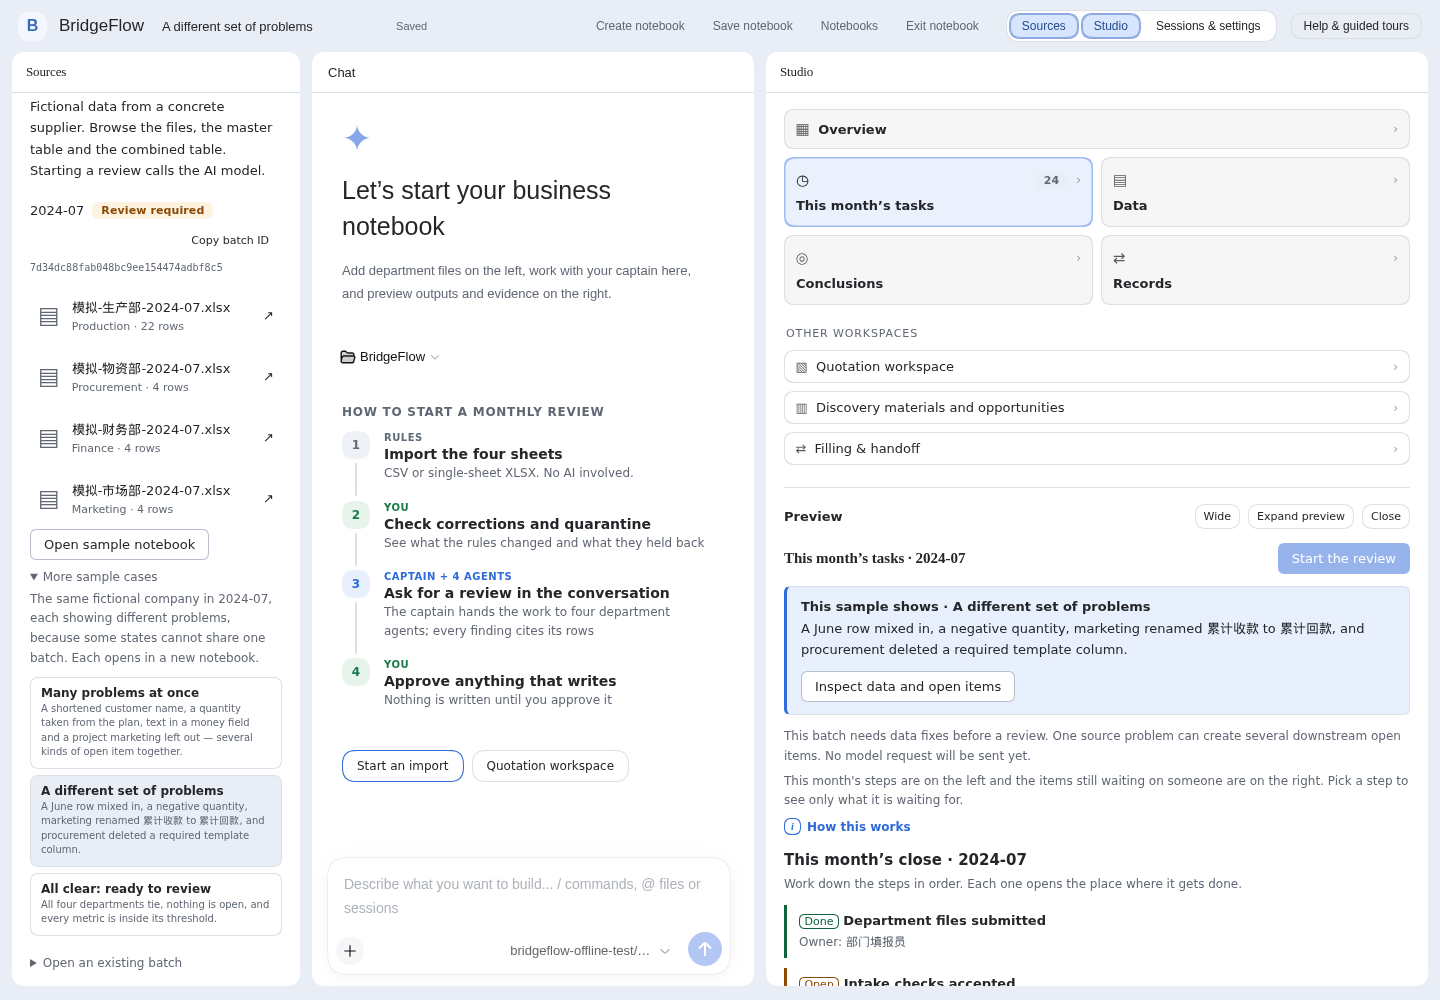
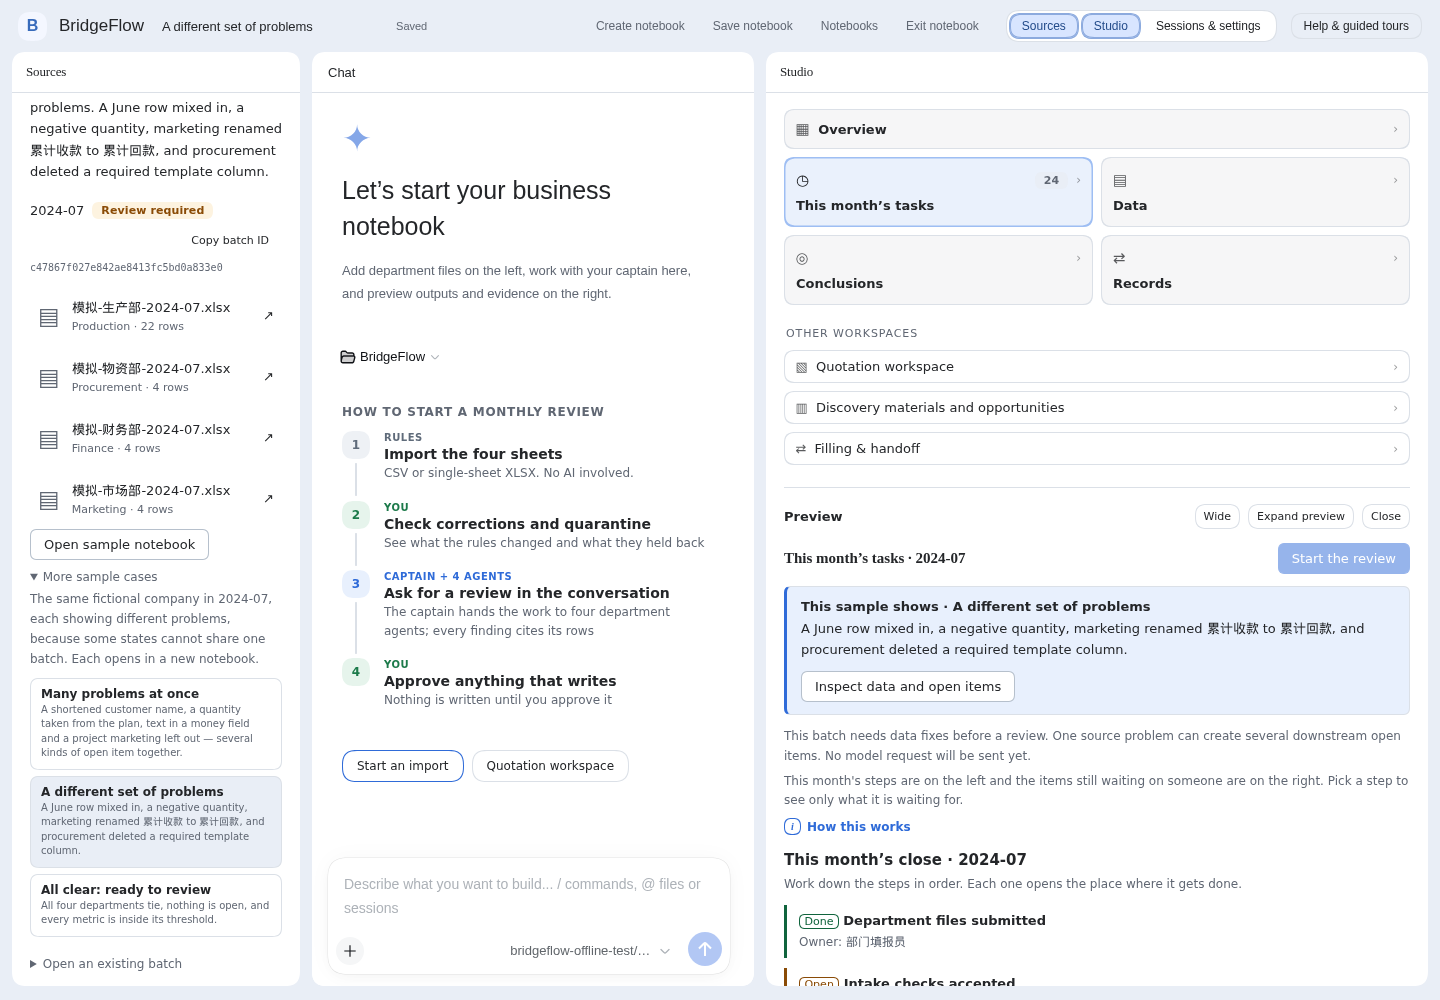
Explain each sample in Sources and correct model guidance

diff --git a/plugins/src/client/shell.tsx b/plugins/src/client/shell.tsx
@@ -1,5 +1,5 @@
 import { Discovery } from './discovery.tsx'
-import { SampleCases } from './sample-cases.tsx'
+import { SampleCases, useDemoCase } from './sample-cases.tsx'
 import { TourDriver, TourHelpButton, TourLayer } from './tour/tour.tsx'
 import { tourEvent } from './tour/state.ts'
 import { notebookKinds, notebookPurposes, isNotebookKind } from '../notebook-capabilities.ts'
@@ -42,6 +42,7 @@ function Shell({ ctx }: { ctx: Context }) {
   const selected = useMemo(() => route(), [hash])
   const batchId = selected.batch || String(audit.review?.batch_id ?? '')
   const [summary, setSummary] = useState<Summary | null>(null), [sources, setSources] = useState<Source[]>([])
+  const sampleCase = useDemoCase(summary?.demo_case ?? '')
   const [artifacts, setArtifacts] = useState<Artifact[]>([]), [artifactTotal, setArtifactTotal] = useState(0), [artifactOffset, setArtifactOffset] = useState(0)
   const [error, setError] = useState(''), [revision, setRevision] = useState(0), [busy, setBusy] = useState(false)
   const [preview, setPreview] = useState<Preview | null>(null), [report, setReport] = useState<Review | null>(null), [offset, setOffset] = useState(0)
@@ -178,7 +179,10 @@ function Shell({ ctx }: { ctx: Context }) {
     <aside className="bf-shell-pane bf-shell-sources bf-state" data-mobile-open={panel === 'sources'} aria-label={t('sources')}>
       <header><h2>{t('sources')}</h2><button className="bf-mobile-close" onClick={() => setPanel('')}>{t('close')}</button></header>
       <div className="bf-shell-scroll"><GuestBanner /><label className="bf-notebook-purpose">{t('notebookKind')}<select disabled={notebook.busy || !notebook.loaded} value={notebook.kind} onChange={e=>{if(isNotebookKind(e.target.value))notebook.setKind(e.target.value)}}>{notebookKinds.map(kind=><option key={kind} value={kind}>{t(notebookPurposes[kind].label)}</option>)}</select></label><p className="bf-hint">{t('notebookPurposeHelp')}</p><button className="bf-add-source" onClick={() => importer.current?.showModal()}>＋ {t('addSources')}</button>
-        <p className="bf-hint">{t('sourceUploadHelp')}</p>{summary?.demo_case && <p className="bf-sample-notice">{t('sampleNotebookTitle')} · {t('sampleNotebookHelp')}</p>}
+        <p className="bf-hint">{t('sourceUploadHelp')}</p>{summary?.demo_case && <p className="bf-sample-notice" role="note">
+          <strong>{t('sampleNotebookTitle')}</strong><br/>
+          {sampleCase ? <>{t('sampleCaseLabel')} · {sampleCase.title[language === 'zh' ? 0 : 1]}{language === 'zh' ? '。' : '. '}{sampleCase.summary[language === 'zh' ? 0 : 1]}</> : t('sampleNotebookHelp')}
+        </p>}
         {summary && <div className="bf-source-batch"><span>{summary.period}</span><Chip status={summary.status}/><button title={batchId} onClick={() => void navigator.clipboard.writeText(batchId).then(() => setCopied(true)).catch(e => setError(describeError(e, t)))}>{t(copied ? 'copied' : 'copyId')}</button><code>{batchId}</code></div>}
         <ul className="bf-resource-list">{sources.map(source => <li key={source.id}><button aria-pressed={selected.source === source.id && selected.view === 'source'} onClick={() => openSource(source)} disabled={!source.preview_available}>
           <span className="bf-file-icon" aria-hidden="true">▤</span><span><strong title={source.filename}>{source.filename}</strong><small>{t(source.id)} · {source.preview_available ? `${source.total} ${t('rows')}` : t('originalUnavailable')}</small></span><span aria-hidden="true">↗</span>

diff --git a/plugins/src/client/ui.ts b/plugins/src/client/ui.ts
@@ -175,7 +175,7 @@ const labels = {
   notebookTitleRequired: ['请填写笔记本名称', 'Enter a notebook name'],
   notebookHistoryHelp: ['从 DSH 已保存的会话中打开笔记本；来源及产物按保存的批次恢复。未保存的空白笔记本不列入历史。', 'Reopen a saved notebook with its sources and results. Empty notebooks that were never saved are not listed.'],
   sampleNotebook: ['打开示例笔记本', 'Open sample notebook'], sampleNotebookTitle: ['业务演示 · 月度对账（模拟商砼公司 2024-07）', 'Business demo · monthly review (fictional concrete supplier, 2024-07)'],
-  sampleNotebookHelp: ['虚构的混凝土供应商数据。可以浏览文件、主表和跨部门总表；发起研判会调用 AI 模型。', 'Fictional data from a concrete supplier. Browse the files, the master table and the combined table. Starting a review calls the AI model.'],
+  sampleNotebookHelp: ['虚构的混凝土供应商数据。可以浏览文件、主表和跨部门总表；到「本月任务」查看本示例展示的问题，以及当前能否发起研判。', 'Fictional data from a concrete supplier. Browse the files and combined table; open This month’s tasks to see what this sample shows and whether a review can start.'],
   draftNotebook: ['空白草稿', 'Empty draft'],
   unsavedNotebook: ['未保存', 'Unsaved'], savedNotebook: ['已保存', 'Saved'],
   resizeSources: ['调整来源栏宽度', 'Resize Sources'], resizeStudio: ['调整工作室宽度', 'Resize Studio'],

diff --git a/plugins/src/client/tasks.tsx b/plugins/src/client/tasks.tsx
@@ -1,24 +1,15 @@
-import { useEffect, useState } from 'react'
+import { useState } from 'react'
 import { CloseChecklist, OpenItemInbox } from './checklist.tsx'
 import { WorkflowProgress } from './workflow-progress.tsx'
-import { api, describeError, navigate, startReview, useUI, type Summary } from './ui.ts'
+import { describeError, navigate, startReview, useUI, type Summary } from './ui.ts'
 import { Explain } from './explain.tsx'
 import { useGuestMode } from './guest.tsx'
+import { useDemoCase } from './sample-cases.tsx'
 import type { projectAudit } from './audit.ts'
-
-type DemoCase = { case_id: string; title: [string, string]; summary: [string, string] }
 
 function DemoCaseGuide({ caseId, batchId }: { caseId: string; batchId: string }) {
   const { t, language } = useUI()
-  const [sample, setSample] = useState<DemoCase | null>(null)
-  useEffect(() => {
-    const controller = new AbortController()
-    setSample(null)
-    void api<{ cases: DemoCase[] }>('/batches/demo/cases', { signal: controller.signal })
-      .then(value => setSample(value.cases.find(item => item.case_id === caseId) ?? null))
-      .catch(() => { if (!controller.signal.aborted) setSample(null) })
-    return () => controller.abort()
-  }, [caseId])
+  const sample = useDemoCase(caseId)
   if (!sample) return null
   const pick = (pair: [string, string]) => pair[language === 'zh' ? 0 : 1]
   return <div className="bf-callout bf-demo-guide" data-tone="info" role="note">

diff --git a/plugins/src/client/sample-cases.tsx b/plugins/src/client/sample-cases.tsx
@@ -1,7 +1,22 @@
 import { useEffect, useState } from 'react'
 import { api, useUI } from './ui.ts'
 
-type Case = { id: string; title: [string, string]; summary: [string, string] }
+type Case = { id: string; case_id: string; title: [string, string]; summary: [string, string] }
+
+/** The same case declaration labels both Sources and the Tasks guide. */
+export function useDemoCase(caseId: string): Case | null {
+  const [sample, setSample] = useState<{ caseId: string; value: Case | null }>({ caseId: '', value: null })
+  useEffect(() => {
+    setSample({ caseId, value: null })
+    if (!caseId) return
+    const controller = new AbortController()
+    void api<{ cases: Case[] }>('/batches/demo/cases', { signal: controller.signal })
+      .then(value => setSample({ caseId, value: value.cases.find(item => item.case_id === caseId) ?? null }))
+      .catch(() => { if (!controller.signal.aborted) setSample({ caseId, value: null }) })
+    return () => controller.abort()
+  }, [caseId])
+  return sample.caseId === caseId ? sample.value : null
+}
 
 /**
  * The demo cases beyond the guided-tour sample. One batch cannot show every state — a batch

diff --git a/docs/00-status.md b/docs/00-status.md
@@ -33,7 +33,7 @@
 
 | 闸门 | 当前证据与结论 |
 | --- | --- |
-| 本地离线主路径 | 在私有 dsh 上复跑员工身份的材料→候选→图→评分→会议→决策浏览器旅程、工作流、月结、四部门研判、报价、三套样例、冷重启、笔记本恢复、部门故障和 README 截图旅程，均通过。员工旅程最初被过期的浏览器测试夹具挡住：它仍写旧的 `users` ACL，且按旧界面查找折叠内容和流程节点；修复测试夹具后通过。评分图第 51 个候选标题的 API 回归与引导四象限完整可见性检查已补上并通过。三本样例的待办固定在各自批次，回开第一本仍显示自己的 15 条，首屏说明、未就绪研判按钮及新笔记本创建时快速转向流转页也在浏览器中核对。复现：`BRIDGEFLOW_TEST_DISCOVERY=1 BRIDGEFLOW_TEST_EMPLOYEE=1 BRIDGEFLOW_LIVE=0 pnpm --dir plugins smoke:web`，以及 [交接文档中的其余命令](../HANDOFF.md)。测试模型是脚本化的，不能代替现场真实模型验收。 |
+| 本地离线主路径 | 在私有 dsh 上复跑员工身份的材料→候选→图→评分→会议→决策浏览器旅程、工作流、月结、四部门研判、报价、三套样例、冷重启、笔记本恢复、部门故障和 README 截图旅程，均通过。员工旅程最初被过期的浏览器测试夹具挡住：它仍写旧的 `users` ACL，且按旧界面查找折叠内容和流程节点；修复测试夹具后通过。评分图第 51 个候选标题的 API 回归与引导四象限完整可见性检查已补上并通过。三本样例的待办固定在各自批次，回开第一本仍显示自己的 15 条；左侧来源和任务页显示一致的案例问题，未就绪研判按钮及新笔记本创建时快速转向流转页也在浏览器中核对。复现：`BRIDGEFLOW_TEST_DISCOVERY=1 BRIDGEFLOW_TEST_EMPLOYEE=1 BRIDGEFLOW_LIVE=0 pnpm --dir plugins smoke:web`，以及 [交接文档中的其余命令](../HANDOFF.md)。测试模型是脚本化的，不能代替现场真实模型验收。 |
 | 代码回归 | 本轮当前分支后端 742、插件 100 条全过，TypeScript 类型检查与相关 Ruff 通过。门户未改，46 条沿用上轮验证；CI 以 PR 当前提交为准。 |
 | 负责人本机演示 | 3082 已重启到当前分支；8000 后端、8100 门户健康，3082 无会话的 401 符合身份围栏预期。新 Command Code 接口以极小请求得到 `OK`，原生 dsh 单题真实模型工具选择正确调用 `batch_summary`（55,625 token）。无飞书登录态的浏览器会被数据接口要求登录；负责人登录后仍需手工走查四样例与两条引导，不能把进程健康或单题模型调用当作走查完成。 |
 | 公网访客入口 | 独立访客实例代码已合入；2026-09-24 只读探测：门户首页返回 200，却没有 `/guest` 入口，`guest.<domain>` TLS 仍不可用。[服务器装配步骤](22-lightsail-deploy.md)中的 DNS、环境变量、服务与重置定时器仍待执行和验收。当前分支的浏览器旅程验证了关闭 AI 时任务页、流转页的禁用与提示；另在临时隔离 worktree 启动真实 `--guest` 进程，从其令牌入站，干净样例与流转样例均可浏览、相应模型按钮禁用且无页面错误。部署 preflight 新增启用 guest 后的入口、令牌和 TLS 条件检查，尚未在服务器执行。该验证仍不等于公网验收。 |

diff --git a/HANDOFF.md b/HANDOFF.md
@@ -15,6 +15,7 @@
 - **新模型路由**：本机 `env.sh` 指向的 Command Code 模型接口用一次极小请求返回 `OK`（50 token）；原生 dsh 的真实模型工具选择旅程只跑首题 `status-zh`，正确首先调用 `batch_summary`，总计 55,625 token。脚本新增 `BRIDGEFLOW_CASE_LIMIT=1` 可在全量 18 题前先验路由；**这不是**完整月结或现场 3082 的重验，暂不继续扩大付费测试。
 - **本机演示进程**：确认新模型路由后已重启 3082（当前分支代码），8000/8100 的 `/health` 都为 200，3082 无会话返回预期 401。无飞书登录态的浏览器虽然能用 dsh 启动令牌进入外壳，但数据接口显示「需要登录」，所以不能算 3082 业务主路径手工通过；负责人登录飞书后仍需看四样例与两条引导。
 - **部署验收缺口**：原 `preflight.sh` 对启用后的访客实例没有检查，可能主站绿灯而评委入口坏。现在只要 guest 单元已启用或门户 guest URI 已配置，就检查 guest/夜间重置单元、8001/3090、本次启动令牌、门户入口和跳转、guest 公网 TLS 与匿名 401。`bash -n` 和部署配置测试 9 条通过；服务器尚未开启 guest，因此这些条件检查没有现场结果。
+- **样例首屏表述**：左侧来源栏此前对四本样例都写同一句「发起研判会调用 AI」，即使数据未就绪或访客 AI 关闭也如此；现在从同一案例登记表显示当前样例的标题和故意埋入的问题，并引导去任务页看是否能研判。三案例浏览器旅程检查左侧与任务页名称一致；中英文 README 的当前模型名称也与 `env.sh` 对齐，旧证据仍按原模型标注。
 - **验证**：三个样例离线打开分别有 15、24、0 条待办；浏览器从第三本切回第一本仍看到第一本的 15 条。后端全量 742、插件 100 条、TypeScript 与 Ruff 通过；完整月结旅程与 README 截图旅程也通过。现场真实模型与公开访客入口仍按[演示闸门](docs/00-status.md)单独验收。
 
 ## 2026-09-24 交付前逐项打磨：评分图与引导

diff --git a/README.md b/README.md
@@ -48,7 +48,7 @@ The public guest entry requires the server setup in [docs/22 §9e](docs/22-light
 
 Status checked 2026-09-24; delivery is due 27 September.
 
-"Offline" means the scripted test model (free and repeatable, used for regression); "real model" means the DeepSeek model configured in `env.sh` (`deepseek-v4-flash` this round). Every number and how to reproduce it is in [`docs/00-status.md`](docs/00-status.md); evidence files are in `docs/evidence/`.
+"Offline" means the scripted test model (free and repeatable, used for regression). The current local real-model route uses Command Code's OpenAI-compatible endpoint with `deepseek/deepseek-v4.1-flash`; earlier evidence in `docs/evidence/` used `deepseek-v4-flash` and is labelled by run. Every measured result and how to reproduce it is in [`docs/00-status.md`](docs/00-status.md).
 
 | Area | Status | Evidence | Still missing |
 | --- | --- | --- | --- |

diff --git a/README.zh.md b/README.zh.md
@@ -32,7 +32,7 @@ BridgeFlow 读的是生产、采购、财务、市场四个部门各自维护的
 
 ## 项目进度总表（2026-09-23，9 月 27 日交付）
 
-「离线」指脚本化测试模型（不计费、结果可复现，用于回归）；「真实模型」指 `env.sh` 配置的 DeepSeek（本轮为 `deepseek-v4-flash`）。
+「离线」指脚本化测试模型（不计费、结果可复现，用于回归）。本机当前真实模型路由为 Command Code 的兼容接口，模型 `deepseek/deepseek-v4.1-flash`；证据目录中的较早运行使用 `deepseek-v4-flash`，各次记录按当时配置标注。
 所有数字的出处与复现命令在 [`docs/00-status.md`](docs/00-status.md)，证据文件在 `docs/evidence/`。
 
 | 部分 | 状态 | 证据 | 还缺什么 |
